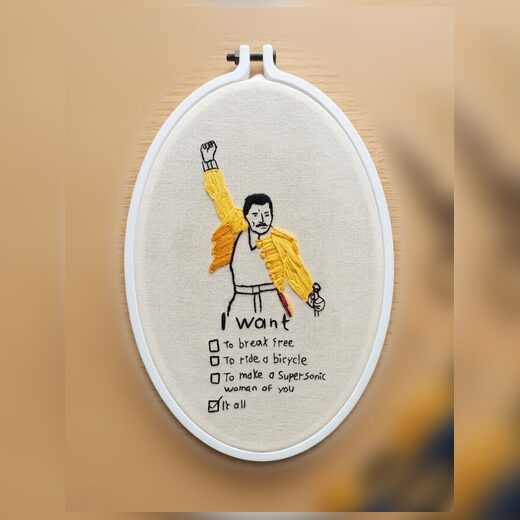
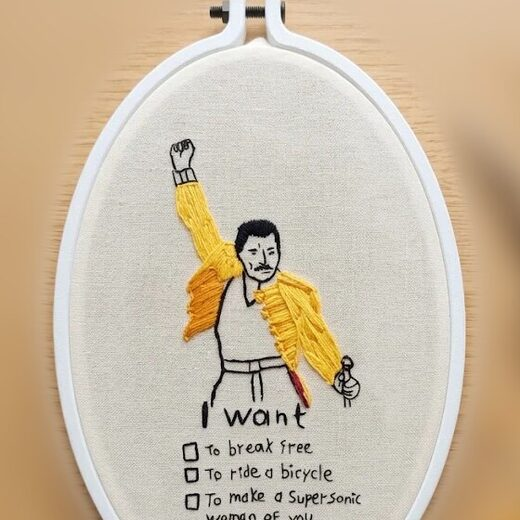
Grand mot : photo mise en scène ; vignette Freddie zoomée
Claude-Session: https://claude.ai/code/session_015QeqxFQgaAZggYLjUjAvWV

diff --git a/components/catalog.js b/components/catalog.js
@@ -89,7 +89,7 @@ const LPS_CATALOG = {
     {
       id: "passif-agressif",
       cover: [
-        { src: "./images/covers/grand-mot-fleur-01.jpg" },
+        { src: "./images/covers/grand-mot-scene.jpg" },
         { src: "./images/covers/embroidery-petit-mot.jpg" },
         { src: "./images/covers/embroidery-grand-mot.jpg" },
       ],
@@ -140,9 +140,11 @@ const LPS_CATALOG = {
       hoopColors: "all",
       label: "Grand mot",
       tag: { icon: "🙃", text: "Passif-brodé-agressif" },
-      image: "./images/embroidery-grand-mot.jpg",
+      image: "./images/grand-mot-scene.jpg",
+      thumb: "./images/thumbs/grand-mot-scene.jpg",
       imageAlt: "Broderie grand mot",
       gallery: [
+        { src: "./images/grand-mot-scene.jpg", alt: "Grand mot « Sauf erreur de ma part », mise en scène", rotation: 0 },
         { src: "./images/embroidery-grand-mot.jpg", alt: "Grand mot", rotation: 0 },
         { src: "./images/grand-mot-fleur-01.jpg", alt: "Grand mot fleuri", rotation: 0 },
       ],
